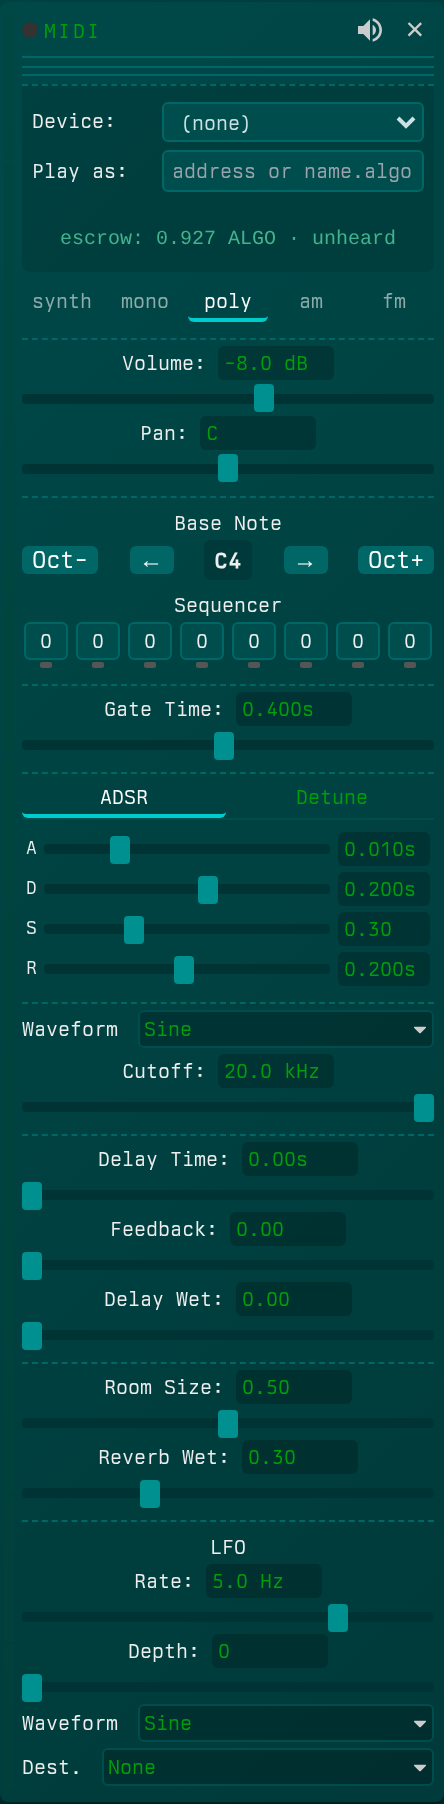
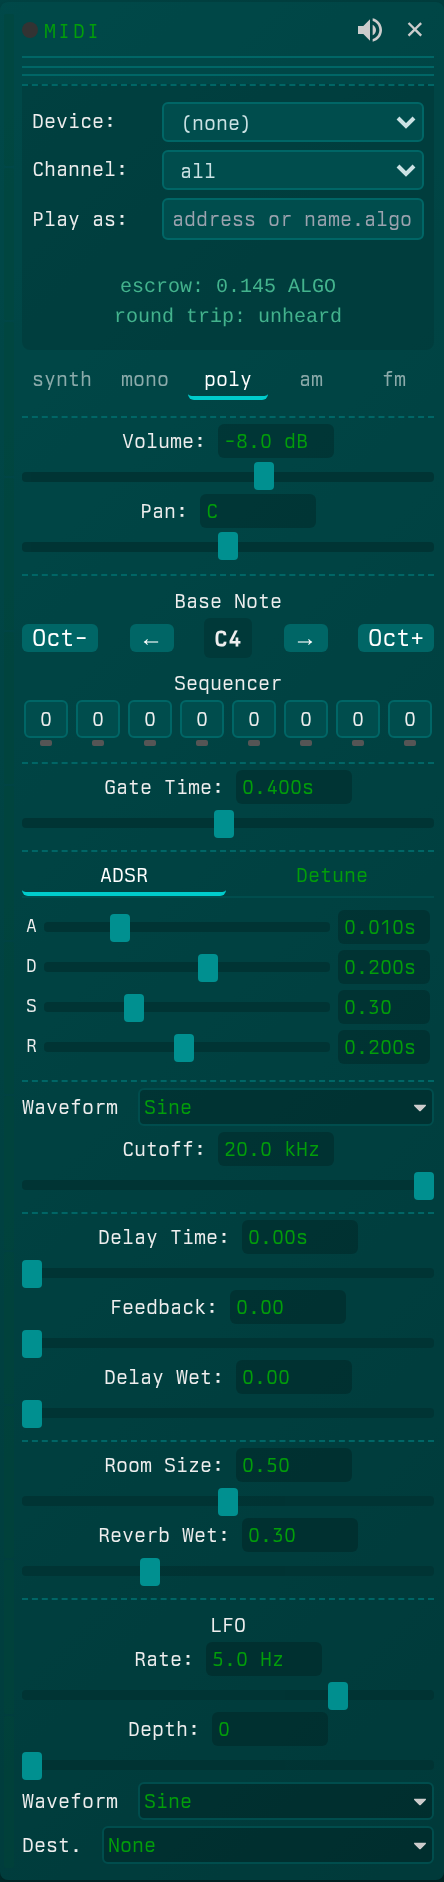
Document the parts, and release them as 0.11.0
The guide gains a Channel paragraph in the MIDI section: leave it on all
for one keyboard, add a card per track and set a channel each for a
device that sends several at once.

The release notes lead with the part that needs saying loudest, which is
that everyone has to update. Notes on channels 2 to 8 are dropped by
0.10.0 rather than sounding wrong, so a friend still on the old build
hears a quarter of a four-track performance and no error.

MINOR: a 0.10.0 preset still loads, and channel is a new key with a
default. The break is in what goes over the network, not in what a preset
means, and the compatibility surface here is presets.

The MIDI card screenshot is recaptured for the new row. The other
twenty-one are left alone — a full run rewrites them all, but only this
one changed.

Claude-Session: https://claude.ai/code/session_01F3U3qYRnw6NPt5BRj81S9X

diff --git a/SOA/projects/SOA-frontend/src/legacy/guide-sections.js b/SOA/projects/SOA-frontend/src/legacy/guide-sections.js
@@ -476,6 +476,11 @@ export const GUIDE_SECTIONS = [
       holding a program that will only ever sign one shape of transaction, so anyone who
       has it can play — at the same time as you, with no server in between. Each note
       costs the minimum fee, 0.001 ALGO, out of that shared balance.</p>
+      <p><strong>Channel</strong> is which MIDI channel this card listens to. Leave it
+      on <em>all</em> for one keyboard. For a device that sends several tracks at once —
+      a groovebox, a sequencer — add one card per track and give each its own channel.
+      Each card has its own sound, and each track arrives as a separate instrument. Up
+      to eight.</p>
       <p><strong>Play as</strong> is how anyone tells your playing apart from anyone
       else's. An address or an NFD <code>name.algo</code>. Leave it empty to play
       anonymously — but then your sound can't travel, since there's no name to

diff --git a/SOA/projects/SOA-frontend/src/legacy/changelog.js b/SOA/projects/SOA-frontend/src/legacy/changelog.js
@@ -7,6 +7,16 @@ import { APP_VERSION } from './app-version.js'
 // version string, commit, tag. The console warning below fires if the two drift.
 export const CHANGELOG = [
   {
+    version: '0.11.0',
+    date: '2026-08-20',
+    highlights: [
+      'One keyboard can send up to eight parts. Each MIDI card picks a channel; each part arrives as its own instrument with its own sound, under your one address.',
+      'Everyone has to update for this. Notes on channels 2 to 8 are dropped by 0.10.0.',
+      'The escrow balance updates as notes are played, not only on reload.',
+      'The MIDI card shows how many notes you have sent and what they cost.',
+    ],
+  },
+  {
     version: '0.10.0',
     date: '2026-08-19',
     highlights: [
